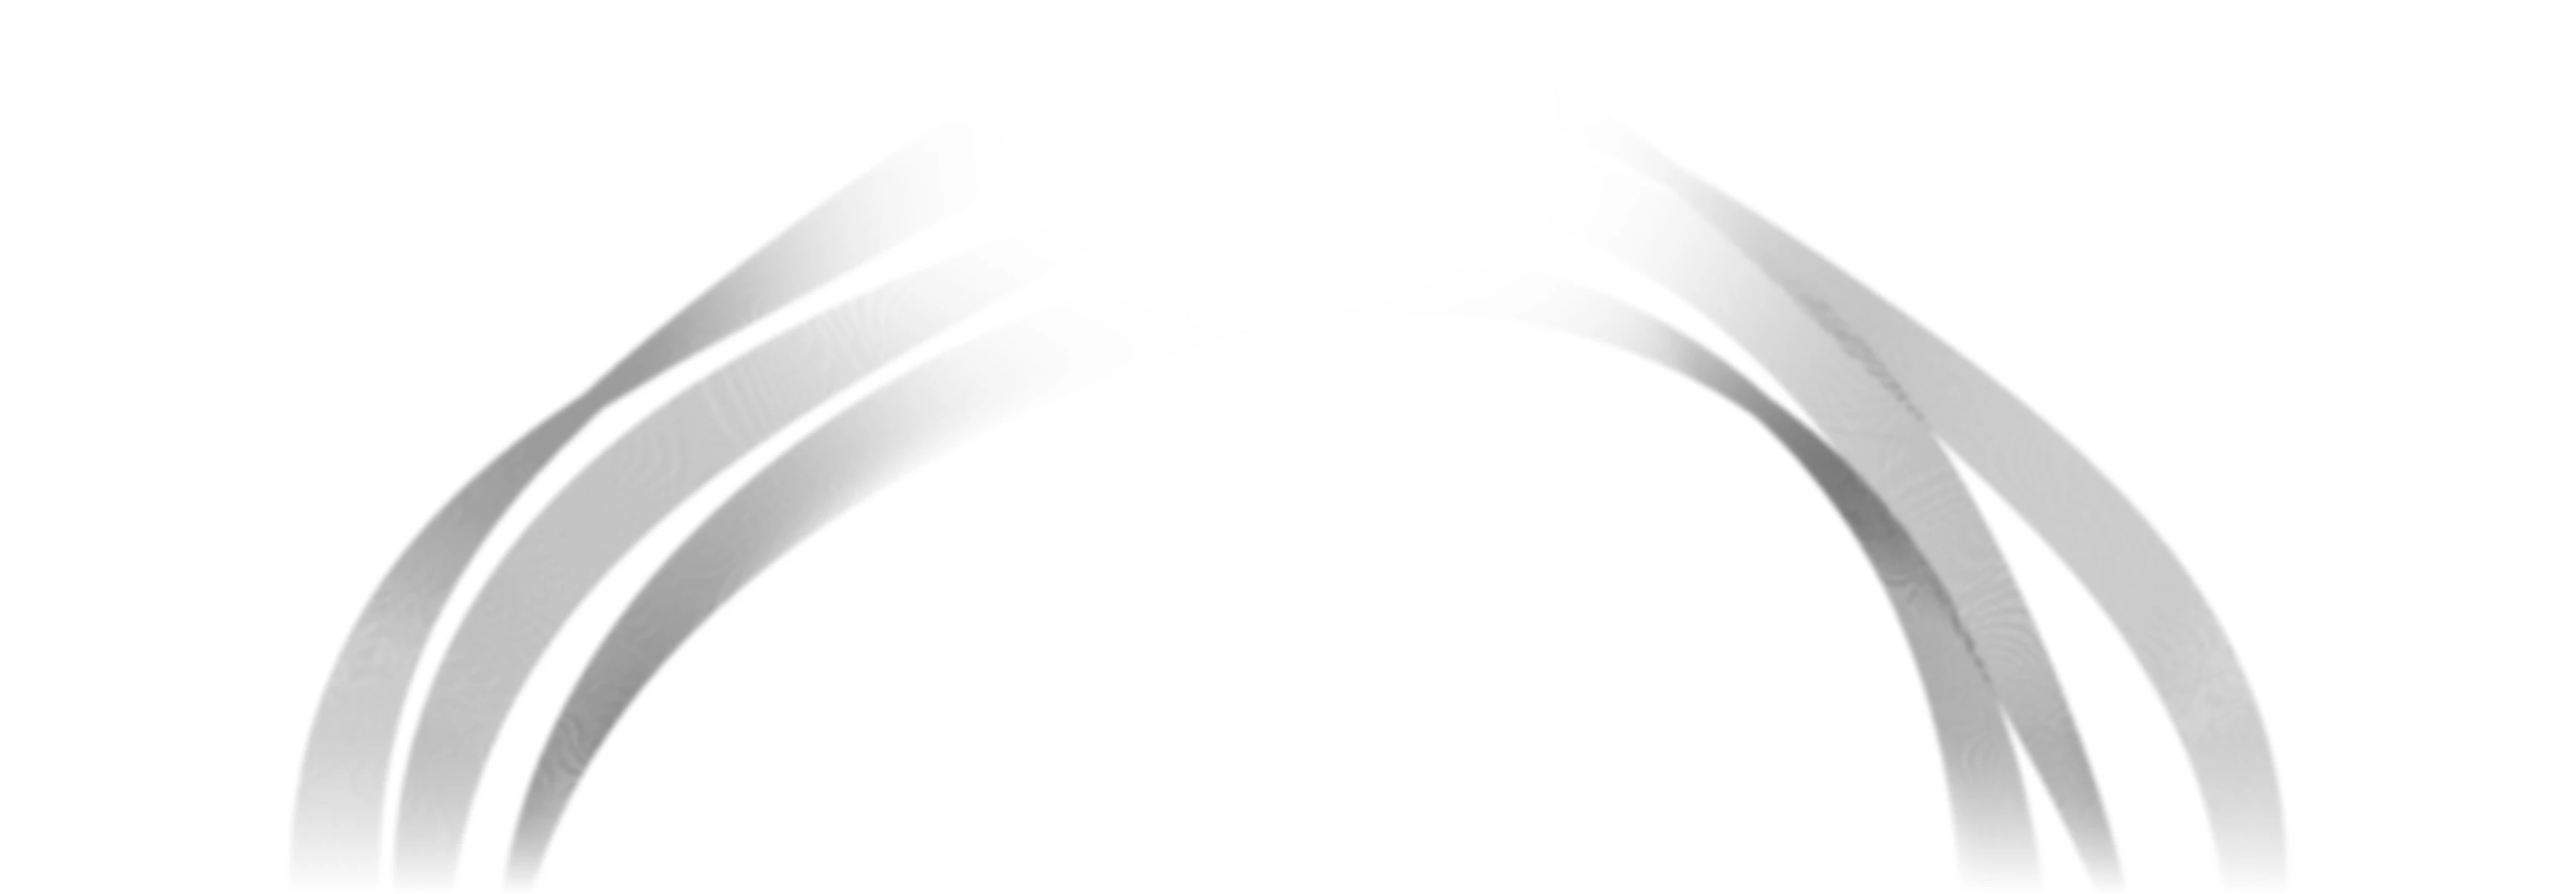
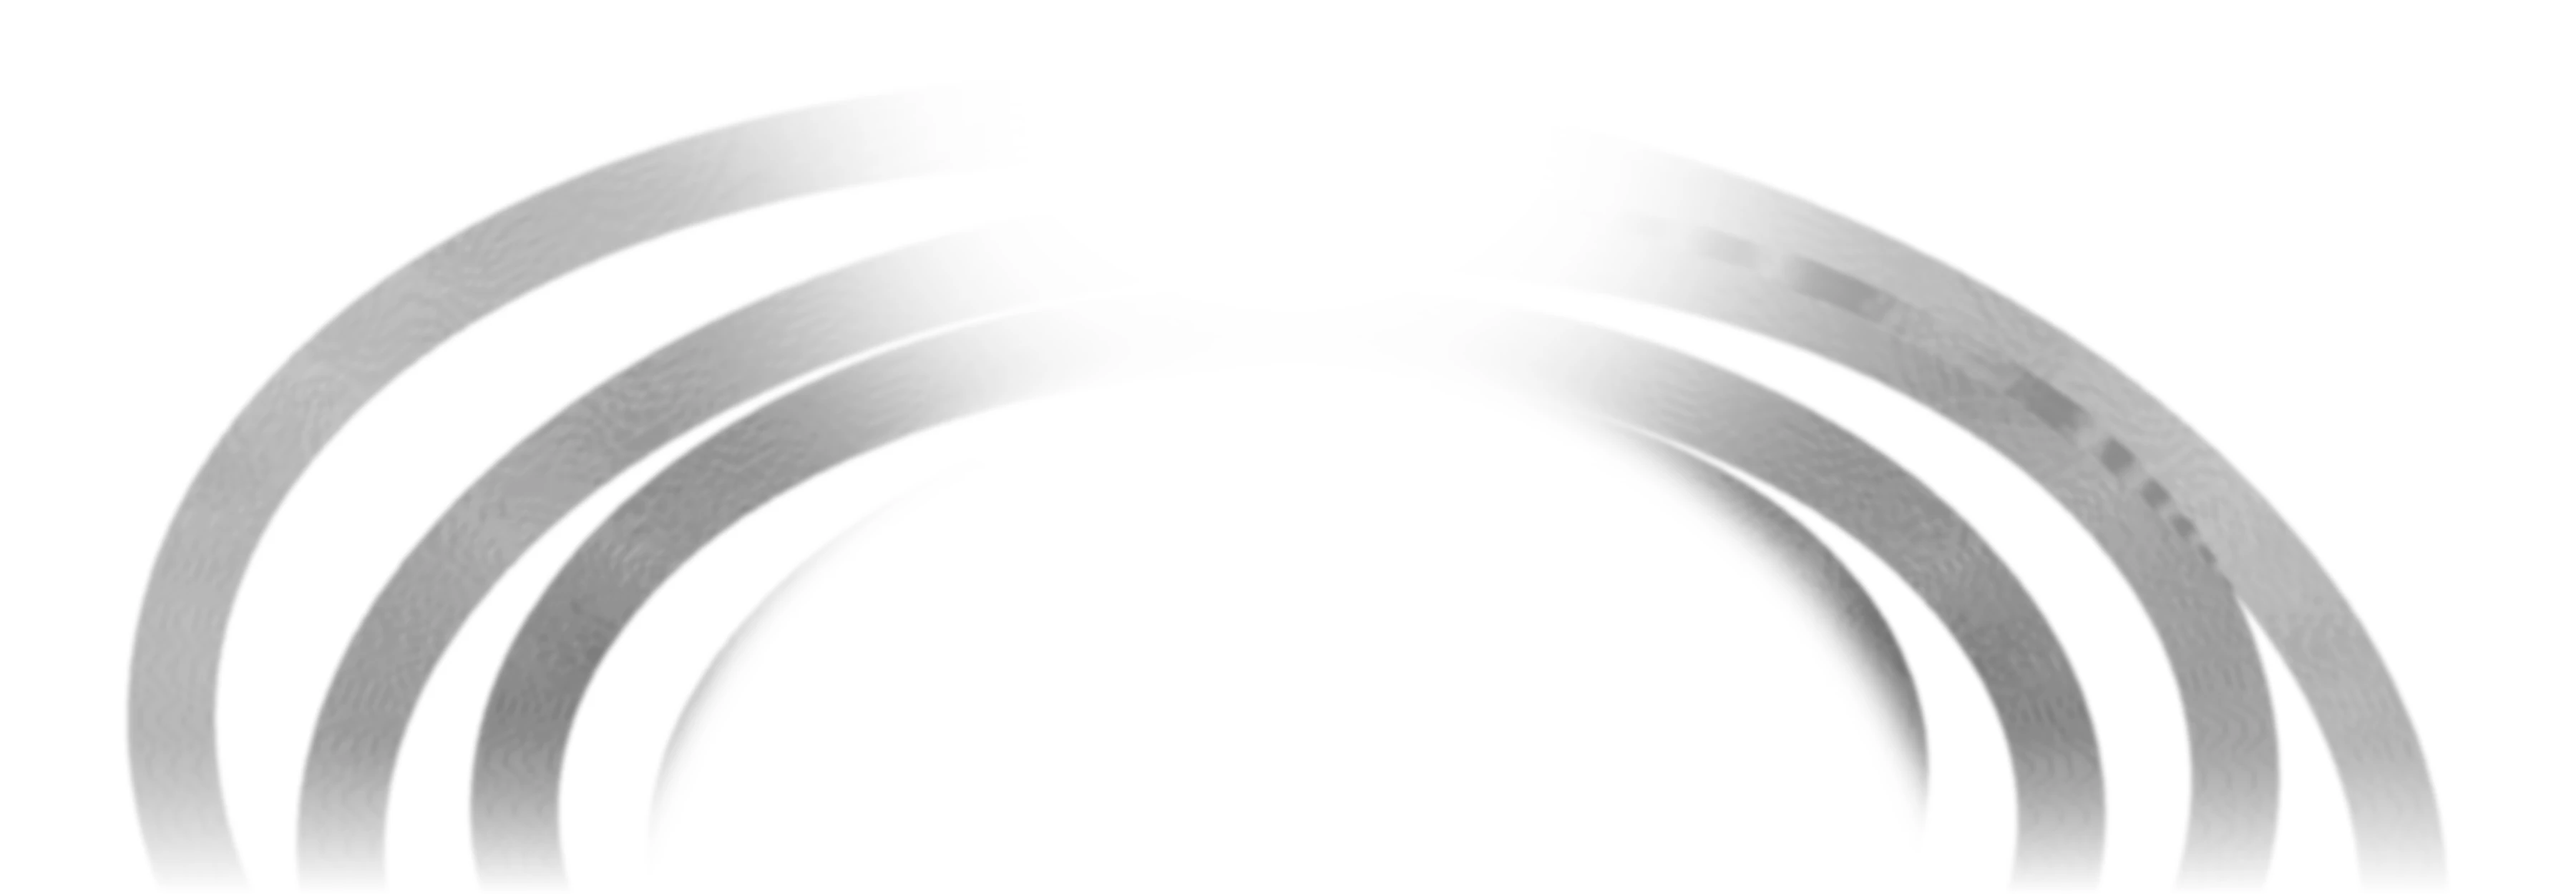
Orbit the apps hero ring, match the shared hero height
The pattern around the logo ring becomes thin tilted orbits, as on the
partners hero. The room under the actions no longer follows the viewport: it
derives from the shared height under the actions (belowActionsPx).

Changed region(s): [[0.0311, 0.1248, 0.3733, 0.9672], [0.6222, 0.2184, 0.9644, 0.9672]]

diff --git a/packages/twenty-website/src/tokens/hero-composition.ts b/packages/twenty-website/src/tokens/hero-composition.ts
@@ -1,8 +1,20 @@
-// The hero's internal vertical rhythm: the gap from the CTA row down to the
-// visual beneath it. An authored measure (the old hero CTA-to-mockup spacing),
-// not a spacing step — so it lives here rather than as a raw number inside the
-// app-preview window scene. Every hero composition (Home / Pricing / Partner)
-// and the product demo read the standard from this one place.
-export const HERO_COMPOSITION: { ctaToVisualGapPx: number } = {
+// The hero's composition, shared by every centered hero (Home, Pricing,
+// Partner, Apps, the partner programs): the intro's measures and rhythm, the
+// gap from the CTA row down to the visual, and the hero's height under its
+// actions, the same on every page.
+export const HERO_COMPOSITION: {
+  headingMeasurePx: number;
+  bodyMeasurePx: number;
+  introGapSpacing: number;
+  ctaToVisualGapPx: number;
+  belowActionsPx: number;
+} = {
+  headingMeasurePx: 672,
+  bodyMeasurePx: 591,
+  introGapSpacing: 8,
   ctaToVisualGapPx: 68,
+  // from the bottom of the actions to the bottom of the hero, its padding
+  // included: the partners globe banner at desktop (0.36 × 1100 + 68), which
+  // every other hero matches
+  belowActionsPx: 464,
 };

diff --git a/packages/twenty-website/src/apps-marketplace/apps-orbit-room.ts b/packages/twenty-website/src/apps-marketplace/apps-orbit-room.ts
@@ -1,6 +1,10 @@
-// The room AppsHero leaves under its buttons for the orbit: whatever the
-// first screen has left, so the ring shows on arrival, within bounds.
+import { HERO_COMPOSITION } from '@/tokens/hero-composition';
+import { RHYTHM } from '@/tokens/rhythm';
+import { spacing } from '@/tokens/spacing';
+
+// The room AppsHero leaves under its buttons for the orbit: what brings the
+// hero to the shared height under the actions (HERO_COMPOSITION).
 export const APPS_ORBIT_ROOM: { base: string; md: string } = {
-  base: 'clamp(200px, calc(100svh - 560px), 280px)',
-  md: 'clamp(220px, calc(100svh - 580px), 400px)',
+  base: `calc(${HERO_COMPOSITION.belowActionsPx}px - ${spacing(RHYTHM.hero.bottom.base)})`,
+  md: `calc(${HERO_COMPOSITION.belowActionsPx}px - ${spacing(RHYTHM.hero.bottom.md)})`,
 };
